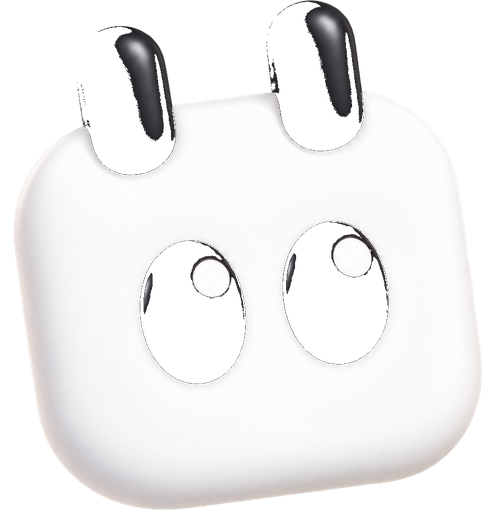
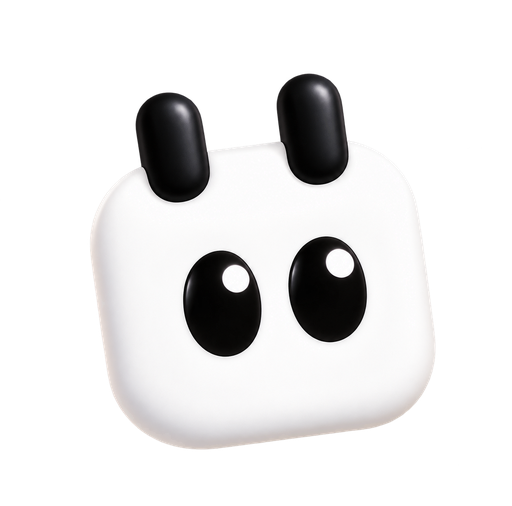
fix: preserve mascot alpha without black keying
Regenerate WebP/PNG from source RGBA; eyes and ears stay opaque on CTA.

diff --git a/components/sections/Cta.tsx b/components/sections/Cta.tsx
@@ -26,8 +26,8 @@ export function Cta() {
             <Image
               src="/mascot-3d.webp"
               alt="3D-mascotte van appointmentsetter.app: een wit kalenderblok met twee ringen en grote zwarte ogen"
-              width={868}
-              height={917}
+              width={1242}
+              height={1228}
               className="cta-mascot-3d"
               sizes="(max-width: 760px) 140px, 240px"
             />
